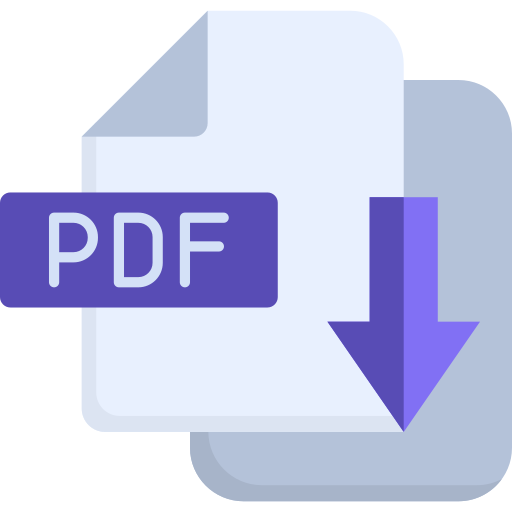
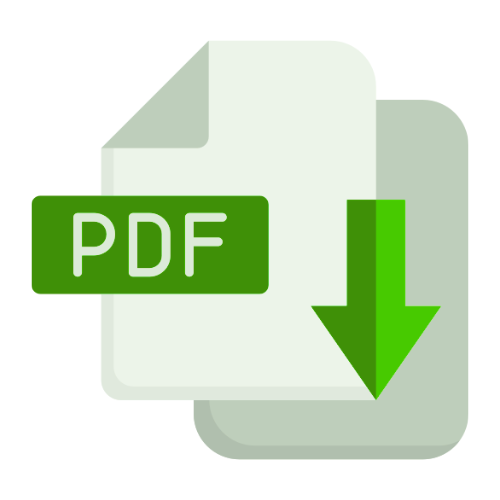
style: finalizes implementation of style changes
on branch develop

changes to be committed:

- changed the background of section 3 and its corresponding cards
- finalized the current base styling of the home page

modified files:

new file:   public/images/bg-green-simbols-dark.png
new file:   public/images/bg-green-simbols-light.png
new file:   public/images/charts-icon-nobg.png
new file:   public/images/charts.png
deleted:    "public/images/gr\303\241ficos.png"
new file:   public/images/pdf-icon-nobg.png
modified:   public/images/pdf.png
new file:   public/images/tiktok.png
new file:   public/images/tutorials-icon-nobg.png
new file:   public/images/tutorials.png
new file:   public/images/youtube.png
deleted:    src/app/(pages)/(policies)/terms/page.tsx
modified:   src/app/globals.css
modified:   src/app/page.tsx
renamed:    src/app/(pages)/(policies)/privacy/page.tsx -> src/app/privacy-terms/page.tsx
modified:   src/components/footer/ConectUs.tsx
modified:   src/components/footer/UsefulLinks.tsx
modified:   src/components/partials/SocialLink.tsx
modified:   tailwind.config.ts

diff --git a/src/app/page.tsx b/src/app/page.tsx
@@ -38,25 +38,25 @@ const Home = () => {
 
 			</section >
 
-			<section className="flex flex-col w-full px-4 py-10 gap-8 md:px-10 md:py-14 bg-gradient-to-b from-color-palette1/5 to-color-palette1/50">
+			<section className="flex flex-col w-full min-h-screen px-4 py-10 gap-8 md:px-10 md:py-14 bg-bgGreenSimbols  bg-cover ">
 				<div className="flex justify-center">
-					<h2 className="font-extrabold tracking-wide md:text-center text-4xl md:text-6xl text-color-palette4">Funcionalidades Extras</h2>
+					<h2 className="font-extrabold tracking-wide text-center text-2xl sm:text-4xl md:text-6xl bg-background p-1 text-shadow-sm shadow-border">Funcionalidades Extras</h2>
 				</div>
-				<div className="flex flex-col md:flex-row flex-1 gap-8 md:gap-10 ">
-					<div className="flex flex-col items-center justify-end flex-1 gap-3 ">
-						<img src="/images/video-tutorial.png" alt="tutorial-icon" className="h-52 w-auto rounded-lg shadow-xl bg-gradient-to-r from-slate-50/30 to-slate-50/5"/>
+				<div className="flex flex-col md:flex-row flex-1 gap-8 md:gap-10 text-white">
+					<div className="flex flex-col items-center justify-center flex-1 gap-3 bg-gradient-to-r from-black to-slate-950 rounded-sm p-2">
 						<h3 className="text-xl font-semibold text-center text-color-palette4">Tutorial em Vídeo</h3>
-						<p className="text-center text-sm text-foreground mt-2">Assista a um tutorial explicativo sobre como usar as funcionalidades do site.</p>
+						<img src="/images/tutorials-icon-nobg.png" alt="tutorial-icon" className="h-52 w-auto rounded-lg shadow-xl"/>
+						<p className="text-center text-sm m-3 text-white/80 font-semibold">Assista a um tutorial explicativo sobre como usar as funcionalidades do site.</p>
 					</div>
-					<div className="flex flex-col items-center justify-center flex-1 gap-3">
-						<img src="/images/gráficos.png" alt="grafics-icon" className="h-52 w-auto rounded-lg shadow-xl bg-gradient-to-r from-slate-50/30 to-slate-50/5"/>
+					<div className="flex flex-col items-center justify-center flex-1 gap-3 bg-gradient-to-r from-black to-slate-950 rounded-sm p-2">
 						<h3 className="text-xl font-semibold text-center text-color-palette4">Gráficos Interativos</h3>
-						<p className="text-center text-sm text-foreground mt-2">Visualize os dados de forma clara e precisa através de gráficos interativos.</p>
+						<img src="/images/charts-icon-nobg.png" alt="grafics-icon" className="h-52 w-auto rounded-lg shadow-xl"/>
+						<p className="text-center text-sm m-3 text-white/80 font-semibold">Visualize os dados de forma clara e precisa através de gráficos interativos.</p>
 					</div>
-					<div className="flex flex-col items-center justify-start flex-1 gap-3">
-						<img src="/images/pdf.png" alt="pdf download icon" className="h-52 w-auto rounded-lg shadow-xl bg-gradient-to-r from-slate-50/30 to-slate-50/5"/>
+					<div className="flex flex-col items-center justify-center flex-1 gap-3 bg-gradient-to-r from-black to-slate-950 rounded-sm p-2">
 						<h3 className="text-xl font-semibold text-center text-color-palette4">Download em PDF</h3>
-						<p className="text-center text-sm text-foreground mt-2">Baixe relatórios completos em formato PDF para análise offline.</p>
+						<img src="/images/pdf-icon-nobg.png" alt="pdf download icon" className="h-52 w-auto rounded-lg shadow-xl "/>
+						<p className="text-center text-sm m-3 text-white/80 font-semibold">Baixe relatórios completos em formato PDF para análise offline.</p>
 					</div>
 				</div>
 			</section>

diff --git a/src/components/footer/ConectUs.tsx b/src/components/footer/ConectUs.tsx
@@ -3,20 +3,19 @@ import { SocialLink } from "@/components/partials/SocialLink";
 export const ConectUs = () => {
     return (
         <div className="flex flex-col flex-1 items-center xs:items-start">
-            <h3 className="font-bold mb-4">Connect Us</h3>
+            <h3 className="font-bold mb-4">Conecte-se a nós</h3>
             <div className="flex flex-col gap-3 justify-between items-center xs:items-start">
                 <p className="tracking-wider text-xs opacity-80">contact.[empresa].com</p>
                 <p className="tracking-widest text-xs opacity-80">+55 (00) 00000-0000</p>
                 <div className="flex flex-col gap-2 items-center xs:items-start">
                     <div className="flex gap-3">
-                        <SocialLink name='facebook' route="/"/>
-                        <SocialLink name='x' route="/"/>
-                        <SocialLink name='linkedin' route="/"/>
-                        <SocialLink name='instagram' route="/"/>
+                        <SocialLink image="/images/facebook.png" name='facebook' route="/"/>
+                        <SocialLink image="/images/x.png" name='x' route="/"/>
+                        <SocialLink image="/images/linkedin.png" name='linkedin' route="/"/>
+                        <SocialLink image="/images/instagram.png" name='instagram' route="/"/>
+                        <SocialLink image="/images/youtube.png" name='youtube' route="/"/>
+                        <SocialLink image="/images/tiktok.png" name='tiktok' route="/"/>
                     </div>
-                    <p className="italic text-[9px] opacity-50">
-                    images by <a href="https://www.pngwing.com/">Pngwing</a> and <a href="https://www.iconsdb.com/">IconsDB</a>
-                    </p>
                 </div>
                 <p className="tracking-widest text-sm xs:font-semibold opacity-70">[empresa].com</p>
             </div>

diff --git a/src/components/footer/UsefulLinks.tsx b/src/components/footer/UsefulLinks.tsx
@@ -5,14 +5,13 @@ import { NavLink } from "@/components/partials/NavLink";
 export const UsefulLinks = () => {
     return (
         <div className="flex flex-col flex-1 md:text-end">
-            <h3 className="font-bold mb-4 text-center xs:text-start md:text-end">Useful Links</h3>
+            <h3 className="font-bold mb-4 text-center xs:text-start md:text-end">Links úteis</h3>
             <nav>
                 <ul className="flex xs:flex-col gap-2 text-center xs:text-start md:items-end opacity-70">
-                    <NavLink route="/about" text="About"/>
-                    <NavLink route="/contact" text="Contact"/>
+                    <NavLink route="/about" text="Sobre"/>
+                    <NavLink route="/contact" text="Contate-nos"/>
                     <NavLink route="/faq" text="FAQ"/>
-                    <NavLink route="/privacy" text="Privacy Policy"/>
-                    <NavLink route="/terms" text="Terms"/>
+                    <NavLink route="/privacy-terms" text="Termos e privacidade"/>
                 </ul>
             </nav>
         </div>

diff --git a/src/app/globals.css b/src/app/globals.css
@@ -37,6 +37,7 @@ body {
     --section2:#0b343d;
     --softgray: #f5f5f5;
     --bgcalcgreen: url('/images/bg-calc-green.png');
+    --bg-green-simbols: url('/images/bg-green-simbols-light.png');
     --green-scribble-text-bg: url('/images/green-scribble-text-bg-light.png');
   }
   .dark {
@@ -68,6 +69,7 @@ body {
     --section2: #001d0e;
     --softgray: #7a8078;
     --bgcalcgreen: url('/images/bg-calc-green-dark.jpg');
+    --bg-green-simbols: url('/images/bg-green-simbols-dark.png');
     --green-scribble-text-bg: url('/images/green-scribble-text-bg-dark.png');
   }
 }

diff --git a/src/components/partials/SocialLink.tsx b/src/components/partials/SocialLink.tsx
@@ -3,13 +3,14 @@ import Link from "next/link"
 type Props = {
     name:string;
     route:string;
+    image: string;
 }
 
-export const SocialLink = ({name, route}:Props) => {
+export const SocialLink = ({name, image, route}:Props) => {
 
     return (
         <Link href={route}>
-            <img src={`/images/${name}.png`} alt={name} className="w-8 dark:brightness-150"/>
+            <img src={image} alt={name} className="w-8 dark:brightness-105"/>
         </Link>
     )
 }

diff --git a/tailwind.config.ts b/tailwind.config.ts
@@ -57,6 +57,7 @@ const config: Config = {
 			},
 			backgroundImage: {
 				bgcalcgreen: 'var(--bgcalcgreen)',
+				bgGreenSimbols: 'var(--bg-green-simbols)',
 				greenScribbleTextBg: 'var(--green-scribble-text-bg)'
 			},
 			borderRadius: {
